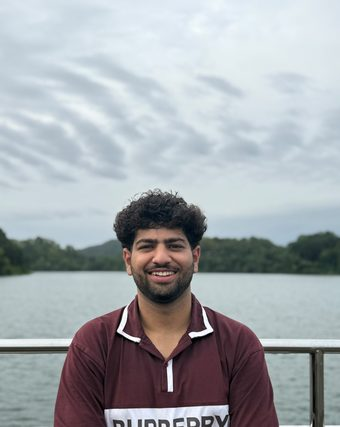
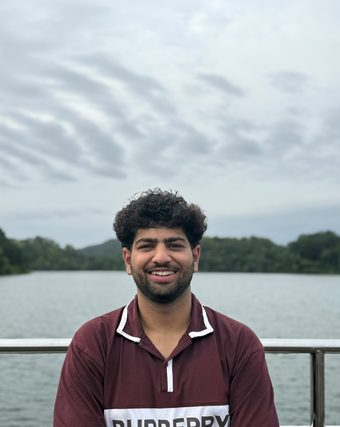
Keep the photo crop from being lost on save
Two ways the crop could go missing, both fixed server-side.

The editor posts its whole in-memory content when you save, so a tab opened
before photo_offset and photo_zoom existed would silently erase them — which
is how they disappeared again after the sliders were fixed. A save that omits
either field now keeps the value already on disk instead of dropping it.

And the crop no longer depends on the browser echoing it back at all: applying
a crop writes offset and zoom into content.json immediately, so the sliders
match the image even if you never press Save.

Restores the crop to 0.025 / 1.095, recovered from the portrait itself by
searching for the parameters that reproduce it.

diff --git a/editor.py b/editor.py
@@ -99,6 +99,23 @@ def save_portrait(image_bytes, offset=0.5, zoom=1.0):
     }
 
 
+def remember_crop(offset, zoom):
+    """Write the crop into content.json straight away.
+
+    The editor posts its whole in-memory content on save, so a tab opened
+    before these fields existed would otherwise wipe them. Recording the crop
+    server-side, at the moment it is applied, keeps it authoritative.
+    """
+    try:
+        c = json.loads(CONTENT.read_text(encoding="utf-8"))
+        c.setdefault("person", {})["photo_offset"] = round(float(offset), 4)
+        c["person"]["photo_zoom"] = round(float(zoom), 4)
+        CONTENT.write_text(json.dumps(c, indent=2, ensure_ascii=False) + "\n",
+                           encoding="utf-8")
+    except Exception:  # noqa: BLE001 - never let bookkeeping break a crop
+        pass
+
+
 class Handler(SimpleHTTPRequestHandler):
     def __init__(self, *a, **kw):
         super().__init__(*a, directory=str(ROOT), **kw)
@@ -152,6 +169,14 @@ class Handler(SimpleHTTPRequestHandler):
                 content = data.get("content")
                 if not isinstance(content, dict):
                     return self.send_json({"error": "no content"}, 400)
+                # a tab opened before a field existed would otherwise erase it
+                try:
+                    on_disk = json.loads(CONTENT.read_text(encoding="utf-8"))
+                    for key in ("photo_offset", "photo_zoom"):
+                        if key not in content.get("person", {}) and key in on_disk.get("person", {}):
+                            content.setdefault("person", {})[key] = on_disk["person"][key]
+                except Exception:  # noqa: BLE001
+                    pass
                 backup_content()
                 CONTENT.write_text(
                     json.dumps(content, indent=2, ensure_ascii=False) + "\n",
@@ -172,6 +197,7 @@ class Handler(SimpleHTTPRequestHandler):
                 out = save_portrait(base64.b64decode(raw),
                                     data.get("offset", 0.5),
                                     data.get("zoom", 1.0))
+                remember_crop(out["offset"], out["zoom"])
                 return self.send_json({"ok": True, **out})
 
             if route == "/api/recrop":
@@ -183,6 +209,7 @@ class Handler(SimpleHTTPRequestHandler):
                 out = save_portrait(original.read_bytes(),
                                     data.get("offset", 0.5),
                                     data.get("zoom", 1.0))
+                remember_crop(out["offset"], out["zoom"])
                 return self.send_json({"ok": True, **out})
 
         except Exception as exc:  # noqa: BLE001
